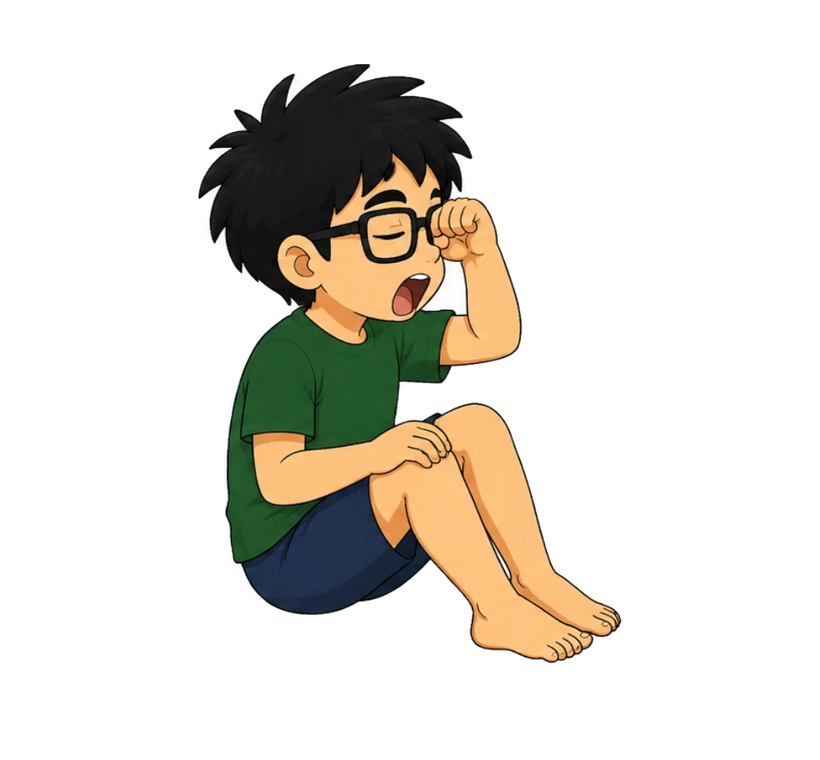
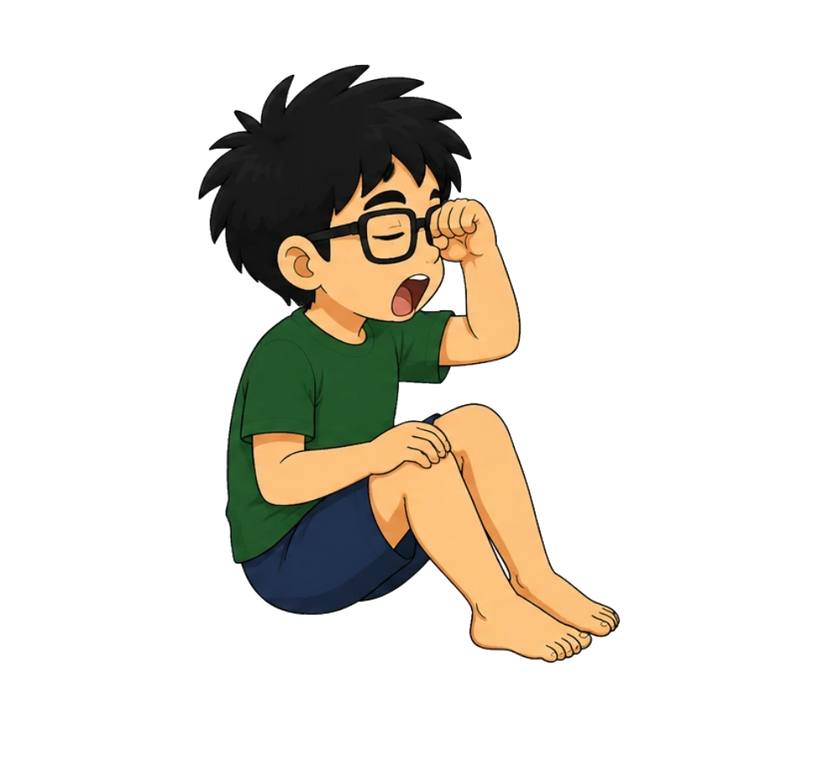
Take the white off the frames, and let the sit-up breathe
Two things, both reported from watching it.

THE BACKGROUND LEFTOVERS. Three separate kinds, and only the first was
the one I expected.

The fill: fit_seated_pose's shared cut_background works at a tolerance
of 8, and its comment says exactly why - the poses it was written for
wear a near-white polo and any looser a fill hollows out his shirt.
Tolerance 8 cannot get into a narrow notch, because the anti-aliased
gradient across the mouth of it exceeds 8 and stops the fill dead. This
boy's hair is drawn as spikes, so his silhouette is nothing but narrow
notches, and each one kept a wedge of white: one and a half per cent of
the figure, six pixels deep. Keying at 60 instead is safe here for a
reason that does not hold for the seated poses - nothing this boy wears
is white, and the only near-white in the drawing is the whites of his
eyes, which a fill seeded at the corners cannot reach anyway.

The pockets: background the fill can never reach because the figure
walls it in - the triangle between his chest and the mattress, the slot
behind a bent knee, the gap between his face and his raised forearm.
Those are cut by size, and the margin is wide rather than delicate: the
largest thing that must be KEPT is an eye at about 110 px, the smallest
that must go is about 870.

The fragments: the generator drew a spare curl of toes floating beside
a foot in two of the three poses, outline and all. Loose islands go.

Then the edge is feathered rather than keyed hard, the colour is bled
[…]

diff --git a/Tools/import_wakeup_frames.py b/Tools/import_wakeup_frames.py
@@ -40,8 +40,34 @@ Save the download as Art/wake_frames_raw.png.
 WHAT THIS SCRIPT DOES, which is make_sit_frames' job with two differences.
 
   1. Splits the strip on the empty columns between the figures.
-  2. Cuts each background with the shared routine in fit_seated_pose, which
-     knows not to eat a pale shirt.
+  2. Cuts the white off each pose, and does NOT use fit_seated_pose's shared
+     cut_background to do it, which is worth explaining because sharing it
+     was the first thing tried.
+
+     That routine fills from the corners at a tolerance of 8, and its comment
+     says exactly why it is that tight: the poses it was written for wear a
+     near-white polo, and any looser a fill steps off the background and
+     hollows out his shirt. Tolerance 8 cannot get into a narrow notch,
+     because the anti-aliased gradient across the mouth of the notch exceeds
+     it and stops the fill dead. This boy's hair is drawn as spikes, so the
+     silhouette is nothing but narrow notches, and every one of them kept a
+     wedge of white background trapped between the spikes - about one and a
+     half per cent of the figure, sitting around six pixels deep.
+
+     So this keys at tolerance 60 instead, which is safe here for a reason
+     that does not hold for the seated poses: nothing this boy wears is
+     white. The only near-white in the drawing is the whites of his eyes,
+     and a fill seeded at the corners cannot reach those - they are enclosed
+     by his outline. Then the boundary is softened, because a hard key on
+     anti-aliased art leaves a jagged edge.
+
+     Afterwards the edge colour is bled outward under the transparency and
+     alphaIsTransparency is turned on, both for the reason
+     Tools/clean_sprite_edges.py gives: with the flag off Unity does not
+     bleed for you, and the moment a sprite is drawn at any size but 1:1 the
+     bilinear filter mixes real pixels with whatever is stored under the
+     transparent texels. Leave white there and a rim of it shows all the way
+     round.
   3. Scales the frames so the two ENDS of the sequence match the real art,
      and walks between those two scales in the middle.
 
@@ -108,9 +134,9 @@ import sys
 
 import numpy as np
 from PIL import Image
+from scipy import ndimage
 
-sys.path.insert(0, os.path.dirname(os.path.abspath(__file__)))
-from fit_seated_pose import cut_background                    # noqa: E402
+from PIL import ImageDraw                                     # noqa: E402
 
 ROOT = os.path.dirname(os.path.dirname(os.path.abspath(__file__)))
 RAW = os.path.join(ROOT, "Art", "wake_frames_raw.png")
@@ -136,6 +162,39 @@ SEATED_FEET_Y = -1.215
 
 # Where the bottom of each in-between sits, stepping between those two.
 FEET = [-0.8925, -1.0, -1.1075]
+
+# How the white is keyed. See the note at the top for why this is six times
+# looser than fit_seated_pose's 8, and why that is safe for this character.
+FILL_TOLERANCE = 60
+WALL = 2
+
+# Background the fill can never reach, because it is walled in by the figure:
+# the triangle between his chest and the mattress, the slot behind a bent
+# knee, the gap between his face and his raised forearm. Anything near-white
+# and bigger than this is one of those; anything smaller is artwork, and the
+# thing it is in practice is the white of an eye.
+#
+# The gap between the two is wide, so this is not a delicate number: in this
+# strip the largest piece of artwork it must keep is an eye at about 110 px
+# and the smallest gap it must cut is about 870.
+POCKET_WHITE = 205
+POCKET_MIN = 250
+
+# Bits the generator drew loose - a spare curl of toes floating beside a foot,
+# outline and all. They are not something the key severed: they come away with
+# a clean gap around them, because they were drawn detached. Anything this
+# much smaller than the figure is one of those, and in the game it would be a
+# scrap of foot hanging in the air beside him.
+ISLAND_MIN_FRACTION = 0.02
+
+# The band over which the edge fades out, as channel minimums. A pixel at or
+# above SOFT_HI is background, at or below SOFT_LO is solid, and between the
+# two it is the anti-aliased rim and gets a proportional alpha.
+SOFT_LO = 150
+SOFT_HI = 248
+
+# How far the edge colour is carried into the transparency, in pixels.
+BLEED = 8
 
 # One canvas for every frame, centred on the sitting pose's centre. Wide
 # enough for him lying down (6.1 units of art), tall enough for him sitting
@@ -221,12 +280,112 @@ def cut_one(strip, x0, x1, i):
     padded = Image.new("RGB", (crop.size[0], crop.size[1] + 60), (255, 255, 255))
     padded.paste(crop, (0, 30))
 
-    tmp = os.path.join(ROOT, "Art", "_wake_tmp_%d.png" % i)
-    padded.save(tmp)
-    try:
-        return cut_background(tmp)
-    finally:
-        os.remove(tmp)
+    return cut_white(padded)
+
+
+def cut_white(src):
+    """Lifts the figure off its white background, softly.
+
+    The same shape as fit_seated_pose.cut_background - wall the border so a
+    fill cannot run along an edge where the figure is cut, then seed from the
+    corners that really are background - but at a tolerance that can get into
+    the notches between his hair spikes, and with a soft edge on the end. See
+    the note at the top of this file.
+    """
+    w, h = src.size
+    work = src.copy()
+    sentinel = (255, 0, 255)
+
+    # The wall. Two pixels is enough to stop 4-connected propagation.
+    ImageDraw.Draw(work).rectangle([0, 0, w - 1, h - 1], outline=(0, 0, 0), width=WALL)
+
+    probe = np.asarray(src).astype(int)
+    inside = WALL + 1
+    used = 0
+    for x, y in ((inside, inside), (w - 1 - inside, inside),
+                 (inside, h - 1 - inside), (w - 1 - inside, h - 1 - inside)):
+        # Only seed where it really is background; a corner the figure
+        # reaches must not become a hole.
+        if probe[y, x].min() < 225:
+            continue
+        ImageDraw.floodfill(work, (x, y), sentinel, thresh=FILL_TOLERANCE)
+        used += 1
+    if used == 0:
+        sys.exit("no corner of a pose looks like background - check the strip")
+
+    filled = np.all(np.asarray(work).astype(int) == sentinel, axis=2)
+
+    # The wall itself is not artwork. Left opaque it is a black frame around
+    # the whole pose, which trim() then reads as the figure's own extent -
+    # that measured the poses at twice their height and halved their scale.
+    filled[:WALL, :] = True
+    filled[-WALL:, :] = True
+    filled[:, :WALL] = True
+    filled[:, -WALL:] = True
+
+    # Then the pockets the fill could not get into - see POCKET_MIN.
+    pockets = (~filled) & (probe.min(axis=2) >= POCKET_WHITE)
+    label, count = ndimage.label(pockets)
+    if count:
+        sizes = ndimage.sum(pockets, label, range(1, count + 1))
+        keep = [k + 1 for k in range(count) if sizes[k] >= POCKET_MIN]
+        if keep:
+            filled |= np.isin(label, keep)
+
+    # Hard transparent where the fill reached; everywhere else, fade out the
+    # anti-aliased rim by how close to white it is. Only pixels touching the
+    # fill are faded, so pale art well inside the figure - his skin, the
+    # whites of his eyes - is never thinned.
+    near = ndimage.binary_dilation(filled, iterations=2) & ~filled
+    whiteness = (probe.min(axis=2) - SOFT_LO) / float(SOFT_HI - SOFT_LO)
+
+    alpha = np.where(filled, 0.0, 255.0)
+    alpha[near] = 255.0 * (1.0 - np.clip(whiteness[near], 0.0, 1.0))
+
+    alpha = drop_islands(alpha)
+
+    out = np.dstack([probe, alpha]).astype(np.uint8)
+    return bleed(Image.fromarray(out, "RGBA"))
+
+
+def drop_islands(alpha):
+    """Rubs out anything the generator drew loose. See ISLAND_MIN_FRACTION."""
+    solid = alpha > 60
+    label, count = ndimage.label(solid)
+    if count <= 1:
+        return alpha
+
+    sizes = ndimage.sum(solid, label, range(1, count + 1))
+    biggest = sizes.max()
+    for k in range(count):
+        if sizes[k] < biggest * ISLAND_MIN_FRACTION:
+            alpha[label == k + 1] = 0.0
+            print("     dropped a loose %d px fragment" % sizes[k])
+    return alpha
+
+
+def bleed(im):
+    """Carries the edge colour out under the transparency.
+
+    Alpha is untouched, so nothing looks different today - it only changes
+    what Unity's bilinear filter finds when it reaches past the edge at any
+    scale but 1:1. Without it the white that was keyed out is still sitting
+    there in the file, ready to be smeared back around him.
+    """
+    a = np.asarray(im).astype(np.uint8)
+    rgb, al = a[..., :3].copy(), a[..., 3]
+
+    solid = al > 8
+    if not solid.any():
+        return im
+
+    # Nearest drawn neighbour for every transparent pixel, which is exactly
+    # what a distance transform hands back for free.
+    _, (iy, ix) = ndimage.distance_transform_edt(~solid, return_indices=True)
+    reach = ndimage.distance_transform_edt(~solid) <= BLEED
+
+    rgb[reach] = rgb[iy[reach], ix[reach]]
+    return Image.fromarray(np.dstack([rgb, al]).astype(np.uint8), "RGBA")
 
 
 def place(pose, feet_y, index, scale=1.0):
@@ -287,6 +446,10 @@ def write_meta(path):
     out = re.sub(r"213: -?\d+", "213: -%d" % internal, out, count=1)
     out = out.replace("lying_down_barefoot_0", name + "_0")
     out = re.sub(r"^  spriteName: .*$", "  spriteName: " + name, out, flags=re.M)
+
+    # Unity bleeds the edge colour outward for you only with this on, and the
+    # sleeping pose this template comes from has it off. See bleed() above.
+    out = re.sub(r"^  alphaIsTransparency: 0$", "  alphaIsTransparency: 1", out, flags=re.M)
 
     open(path + ".meta", "w", encoding="utf-8").write(out)
 

diff --git a/Assets/Scripts/WakeUpSequence.cs b/Assets/Scripts/WakeUpSequence.cs
@@ -137,7 +137,7 @@ public class WakeUpSequence : MonoBehaviour
     [Tooltip("Beat between the snore stopping and the sit-up starting. The yawn " +
              "begins in this gap, so the sound leads the movement by a hair - which " +
              "is the right way round, since a yawn is what wakes you.")]
-    public float yawnLead = 0.16f;
+    public float yawnLead = 0.2f;
 
     [Tooltip("How long the sleeping pose takes to dissolve into the sitting one.\n\n" +
              "Without this the two drawings change over in a single frame, and no " +
@@ -147,19 +147,22 @@ public class WakeUpSequence : MonoBehaviour
              "swing is already under way is what turns a cut into a movement. Keep it " +
              "shorter than the swing; a long dissolve reads as a ghost rather than a " +
              "boy.")]
-    public float poseCrossFade = 0.22f;
+    public float poseCrossFade = 0.3f;
 
-    [Tooltip("How long the sit-up takes. Long enough to read as a movement, short " +
-             "enough that the child is not kept waiting for the next word. At 0.85 " +
-             "the swing peaks around 165 degrees a second; it was 237 at 0.6, which " +
-             "is quick enough to read as a snap rather than a child getting up.")]
-    public float riseSeconds = 0.85f;
+    [Tooltip("How long the sit-up takes, drawn frames or swing. Long enough to read " +
+             "as a movement, short enough that the child is not kept waiting for the " +
+             "next word.\n\n" +
+             "With the frames, Frames Share of this is divided between them - at 1.6 " +
+             "that is about a third of a second a pose, where 0.85 gave a sixth and " +
+             "went past too quickly to see what he was doing. The whole beat, yawn to " +
+             "stretch, then runs about 2.3 seconds and \"Tayo\" is asked at around 2.6.")]
+    public float riseSeconds = 1.6f;
 
     [Tooltip("A breath held sitting upright before he stretches. Worth having for " +
              "two reasons: it is what a person actually does - up first, stretch " +
              "second - and it keeps the stretch's slide-whistle out of the loud " +
              "middle of the yawn, which is a little over a second long.")]
-    public float stretchDelay = 0.22f;
+    public float stretchDelay = 0.3f;
 
     [Tooltip("How far back the sitting pose is tipped when it starts, in degrees - " +
              "roughly where the sleeping pose lay. Positive tips the head toward the " +
@@ -193,7 +196,7 @@ public class WakeUpSequence : MonoBehaviour
     public float startSquash = 0.07f;
 
     [Tooltip("How long the stretch on the end of the sit-up takes.")]
-    public float stretchSeconds = 0.45f;
+    public float stretchSeconds = 0.6f;
 
     [Tooltip("How far the figure reaches up in the stretch, as a fraction of its " +
              "height.")]
